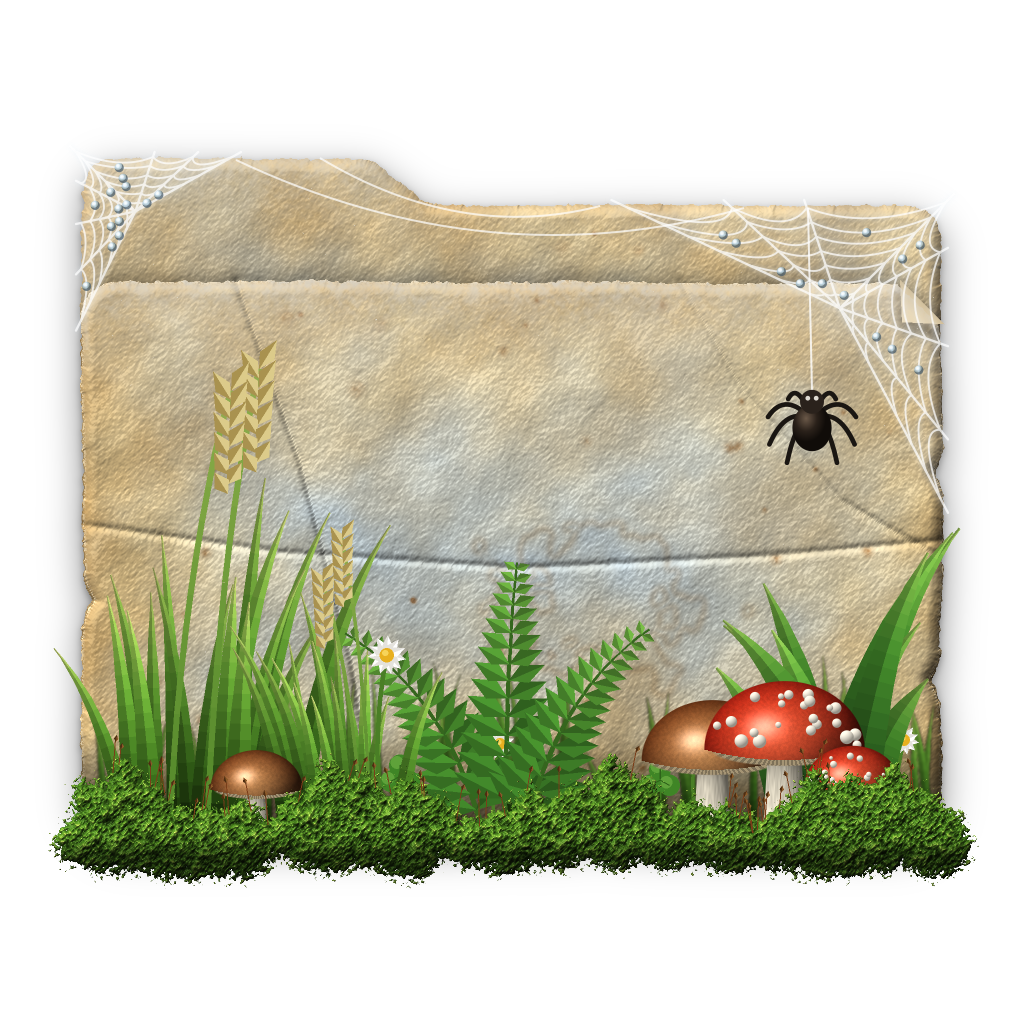
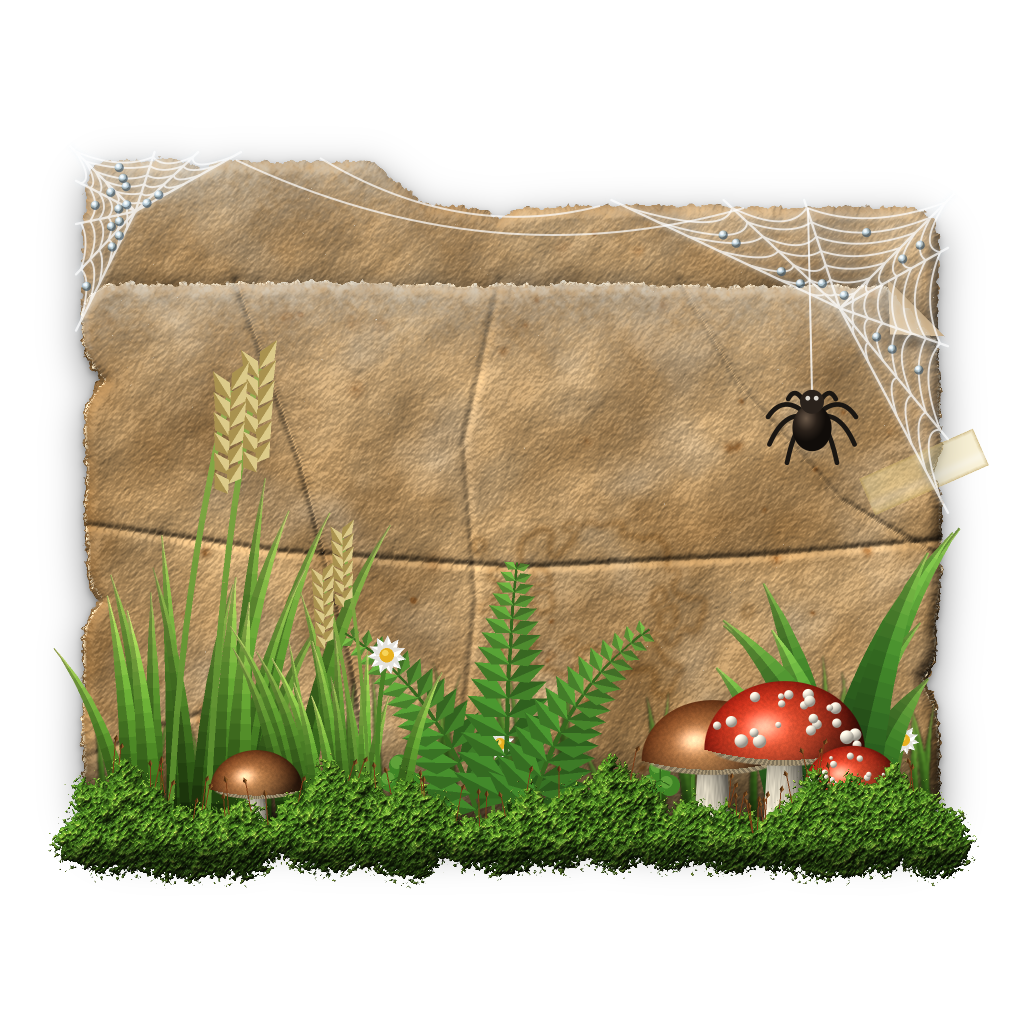
Смена темы перерисовывает папки на рабочем столе; карточки тем — крайние состояния
- При замене своей иконки сначала снимаем старую и уведомляем Finder,
  иначе рабочий стол показывал закэшированную иконку прежней темы.
- Смена темы сразу запускает перерисовку всех папок.
- На карточках выбора темы — самые старые и заброшенные папки каждой темы.
- Иконка приложения — крайнее состояние Nature.

Claude-Session: https://claude.ai/code/session_01B56R1a3Mzs4vDcPXSNi1zM

diff --git a/Sources/FolderAge/DecayEngine.swift b/Sources/FolderAge/DecayEngine.swift
@@ -73,6 +73,16 @@ final class DecayEngine: ObservableObject {
             .debounce(for: .milliseconds(400), scheduler: RunLoop.main)
             .sink { [weak self] _ in self?.reconfigure() }
             .store(in: &cancellables)
+        // Смена темы: перерисовать все папки сразу, не дожидаясь общего пересканирования.
+        prefs.$theme
+            .dropFirst()
+            .removeDuplicates()
+            .receive(on: DispatchQueue.main)
+            .sink { [weak self] _ in
+                self?.imageCache.removeAll()
+                self?.scheduleScan(after: 0.1)
+            }
+            .store(in: &cancellables)
         reconfigure()
     }
 
@@ -317,7 +327,17 @@ final class DecayEngine: ObservableObject {
 
     @discardableResult
     private func setIcon(_ image: NSImage?, _ path: String) -> Bool {
-        NSWorkspace.shared.setIcon(image, forFile: path, options: [])
+        let ws = NSWorkspace.shared
+        // Finder кэширует иконку папки: если просто заменить одну свою иконку другой,
+        // на рабочем столе остаётся старая. Поэтому сначала снимаем иконку, потом ставим новую
+        // и явно сообщаем Finder об изменении папки и её родителя.
+        if image != nil, FileManager.default.fileExists(atPath: (path as NSString).appendingPathComponent("Icon\r")) {
+            _ = ws.setIcon(nil, forFile: path, options: [])
+        }
+        let ok = ws.setIcon(image, forFile: path, options: [])
+        ws.noteFileSystemChanged(path)
+        ws.noteFileSystemChanged((path as NSString).deletingLastPathComponent)
+        return ok
     }
 
     private var storeURL: URL {

diff --git a/Sources/FolderAge/Prefs.swift b/Sources/FolderAge/Prefs.swift
@@ -21,8 +21,8 @@ enum Theme: String, CaseIterable, Identifiable {
         }
     }
 
-    /// Картинка для карточки выбора темы.
-    var previewKey: String { self == .ocean ? "a2n2B" : "a2n2A" }
+    /// Картинка для карточки выбора темы — крайнее состояние: самая старая и заброшенная папка.
+    var previewKey: String { self == .ocean ? "a4n4B" : "a4n4A" }
     var isPixelArt: Bool { self == .digital }
 }
 
